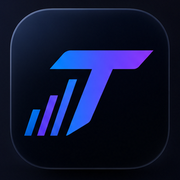
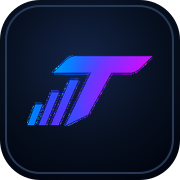
Regenerate Traknio assets from clean sources

diff --git a/app/layout.tsx b/app/layout.tsx
@@ -95,8 +95,8 @@ export default async function RootLayout({ children }: Readonly<{ children: Reac
                 <Image
                   src="/brand/traknio-logo-mark-exact.png"
                   alt=""
-                  width={128}
-                  height={74}
+                  width={167}
+                  height={94}
                   priority
                 />
               </span>
@@ -104,7 +104,7 @@ export default async function RootLayout({ children }: Readonly<{ children: Reac
                 src="/brand/traknio-wordmark-exact.png"
                 alt={BRAND.name}
                 width={520}
-                height={71}
+                height={50}
                 className="app-brand-wordmark"
                 priority
               />

diff --git a/app/watch/page.tsx b/app/watch/page.tsx
@@ -252,7 +252,7 @@ export default function WatchPage() {
     <main className={`watch-page-v2 ${isResting ? "is-resting" : ""}`} data-watch-route="true">
       <section className="watch-round-shell" style={ringStyle} aria-live="polite">
         <div className="watch-time-text">
-          <Image src="/brand/traknio-watch-mark-exact.png" alt="" width={96} height={55} priority />
+          <Image src="/brand/traknio-watch-mark-exact.png" alt="" width={91} height={52} priority />
         </div>
         <span className={`watch-sync-dot watch-sync-dot--${syncState}`}>{syncLabel}</span>
 

diff --git a/app/page.tsx b/app/page.tsx
@@ -51,7 +51,7 @@ export default async function HomePage() {
           src="/brand/traknio-logo-site.png"
           alt={`${BRAND.name} - ${BRAND.tagline}`}
           width={769}
-          height={395}
+          height={168}
           className="landing-brand-reference"
           priority
         />
